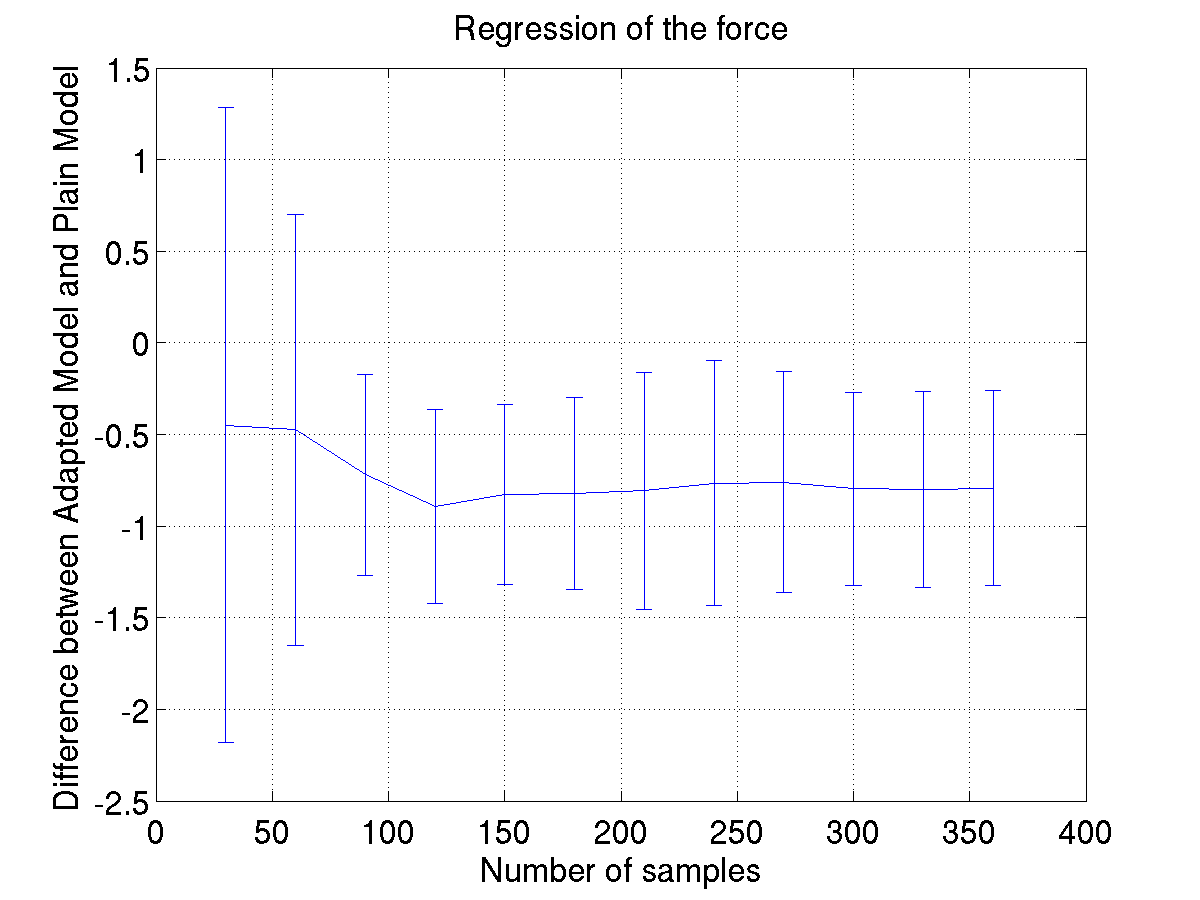
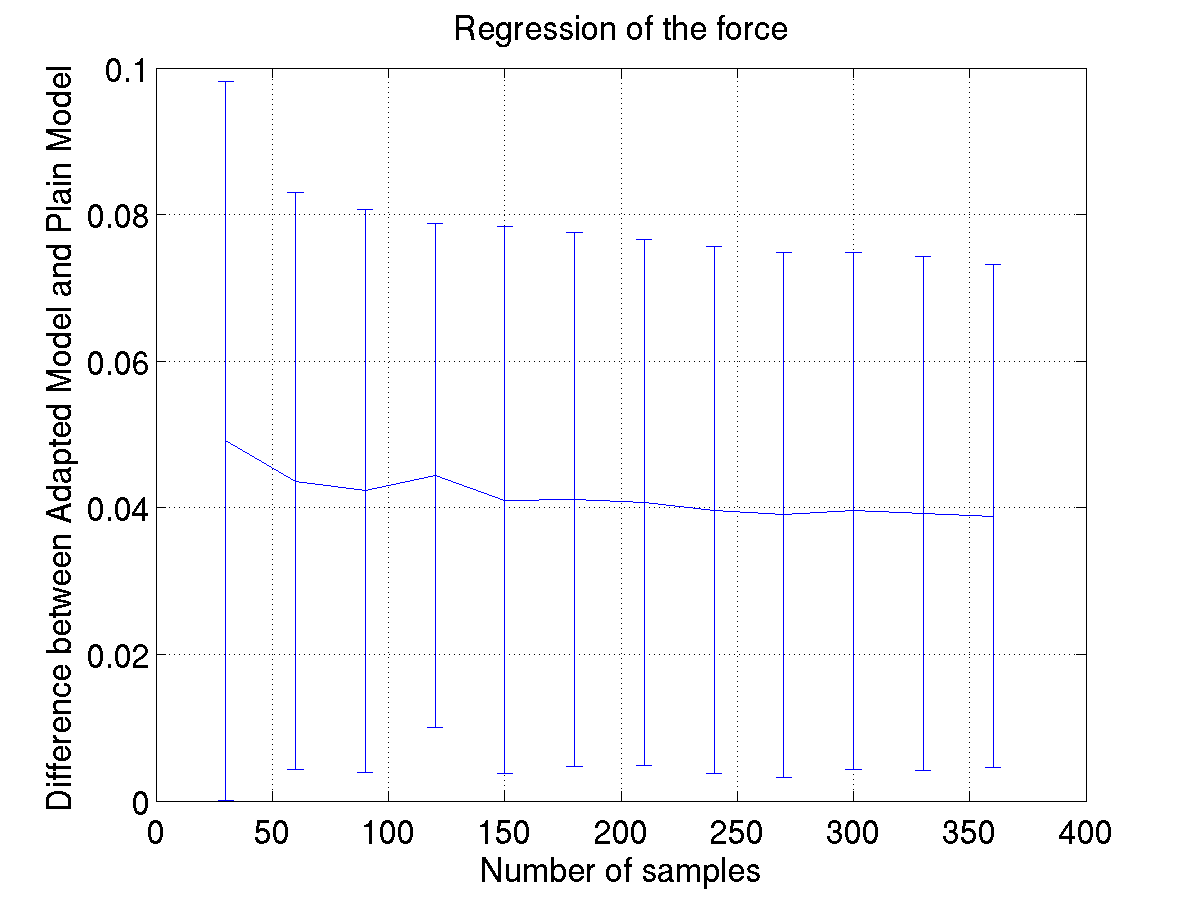
*** empty log message ***

Changed region(s): [[0.0308, 0.0622, 0.1233, 0.9022], [0.0925, 0.7778, 0.1233, 0.8089]]

diff --git a/2009.ICRA/30.exp.tex b/2009.ICRA/30.exp.tex
@@ -1,28 +1,81 @@
 We have conducted two different experiments, one to predict the force measured
 by the force sensor and another one to classify the grasp type.
-The EMG data were the preprocessed as described in Sec ???.
-To assess the performance of the proposed adaptation method we have compared it
-to two baseline methods. The first one consists in using only the stored models
-wihtout updating them; the second one consists in using only the new data for
-training. The parameters of the training ($C$ and $\gamma$) were chosen by
-cross-validation.
+The EMG data were the preprocessed as described in Sec \ref{sec:preproc}.
 
-Given that we have data from $10$ subjects we have used a sort of
-cross-validation to test the methods. In particular we consider one of the
-subject for the new data and use the other $9$ subjects to train the stored
-models. We repeat this procedure $10$ times, one for each subject, to have a
-reliable estimation of the performance.
+As said in Sec \ref{sec:adapt}, we need $N$ models already stored in memory.
+Then training data comes from subject $N+1$ and the system starts
+training. The performace is evaluated using unseen data from the subject
+$N+1$.
+To simulate this scenario and to have reliable estimation of the
+performance, we have used a sort of cross-validation.
+In particular we consider one of the subject to generate random sequences
+of training data and use the other $9$ subjects to train the stored models.
+This procedure is repeated $10$ times.
+
+To assess the performance of the proposed adaptation method we have compared it
+to two baseline methods. The first one, that we call \emph{Prior} consists in
+using only the stored models wihtout updating them with the new training data.
+The second one, \emph{NoAdapt}, consists in using LS-SVM using only the new data
+for training, as it would be in the normal scenario without adaption.
+For classification we used the classification rate as a measure of performance,
+while for regression we used the correlation index because \textbf{Claudio: perche'?
+hai una citazione da mettere?}.
+All the parameters of the training ($C$ and $\gamma$ of the gaussian kernel)
+were chosen by cross-validation.
+
+In Figure \ref{fig:diff_cla} we have plotted the average difference between 
+the classification performance of NoAdapt and our method. Using our adaptation
+method there is always an improvement, but when the training samples are too
+few the standard deviations are big. This is due to the high variance of the
+leave-one-out error with few training samples. Still, the average gain is
+almost $5\%$ when there are only 30 training samples and seems to stabilize
+around $1\%$ as the training samples increase.
+In Figure \ref{fig:cla_abs}.a we have plotted the best performance of our method
+on a particular subject, while in Figure \ref{fig:cla_abs}.b there is the worst
+performance on another subject. In the best case the gain is quite significant,
+while in the worst case we almost recover the performance of NoAdapt. In this
+case none of the models match the new distribution of the data, so the parameter
+$\beta$ was automatically set to a very small value. It is reasonable to think
+that the performance of the method would increase with the number of stored
+models. Note that in all the cases the performance of Prior models, where well
+below the performance of Adapt and NoAdapt, in Figure \ref{fig:cla_abs} is shown
+only the performance of the best one among all the 9 stored models.
+Similar observations can be done for the regression task in Figure \ref{fig:diff_reg}
+and Figure \ref{fig:reg_abs}.
 
 \begin{figure}[t]
   \centering
   \includegraphics[width=0.95\linewidth]{figs/exp1}
-  \caption{The classification experiment.}
-  \label{fig:exp1}
+  \caption{Difference in performance between NoAdapt and our method  on the
+ classification of the grasp types.}
+  \label{fig:diff_cla}
 \end{figure}
 
-\begin{figure}[t]
+\begin{figure*}[ht] \centering
+  \begin{tabular}{cc}
+    \includegraphics[width=0.45\textwidth]{figs/exp1_abs_best} &
+    \includegraphics[width=0.45\textwidth]{figs/exp1_abs_worst} \\
+    $(a)$ & $(b)$ \\
+  \end{tabular}
+  \caption{$(a)$ Best classfication rate gain of the adapted model compared to
+ NoAdapt and Prior on a particular subject; $(b)$ worst performance on another subject.}
+  \label{fig:cla_abs}
+\end{figure*}
+
+\begin{figure}[ht]
   \centering
   \includegraphics[width=0.95\linewidth]{figs/exp2}
   \caption{The regression experiment.}
-  \label{fig:exp2}
+  \label{fig:diff_reg}
 \end{figure}
+
+\begin{figure*}[ht] \centering
+  \begin{tabular}{cc}
+    \includegraphics[width=0.45\textwidth]{figs/exp2_abs_best} &
+    \includegraphics[width=0.45\textwidth]{figs/exp2_abs_worst} \\
+    $(a)$ & $(b)$ \\
+  \end{tabular}
+  \caption{$(a)$ Best correlation coefficient gain of the adapted model compared to NoAdapt
+ and Prior on a particular subject; $(b)$ worst performance on another subject.}
+  \label{fig:reg_abs}
+\end{figure*}

diff --git a/2009.ICRA/25.math.tex b/2009.ICRA/25.math.tex
@@ -1,9 +1,9 @@
 This section describes our mathematical framework. We first introduce
-the basic notation (Section \ref{back}), then we present our algorithm
-for online model adaptation (Section \ref{adapt}).
+the basic notation (Section \ref{sec:back}), then we present our algorithm
+for online model adaptation (Section \ref{sec:adapt}).
 
 \subsection{Background}
-\label{back}
+\label{sec:back}
 
 Assume $\xx_i \in \RR^m$ is an input vector and $y_i \in \RR$ is its
 associated output.  Given a set $\{\xx_i,y_i\}_{i=1}^l$ of samples
@@ -28,12 +28,10 @@ feature space itself,
 %between the images of vectors in the feature space,
 i.e. $K(\xx,\xx')=\phi(\xx) \cdot \phi(\xx')$. A common kernel
 function is the Gaussian kernel
-
 \begin{equation}
   K(\xx,\xx')=\exp(-\gamma ||x-x'||^2)
   \label{eq:rbf}
 \end{equation}
-
 \noindent that will be used in all our experiments.
 
 The parameters of the linear model, $\ww$ and $b$, are found by
@@ -53,7 +51,7 @@ adaptation method. Note that we use the same formulation to solve both
 regression and classification problems.
 
 \subsection{Model Adaptation}
-\label{adapt}
+\label{sec:adapt}
 
 Let us assume $N$ models are already stored in memory, trained
 off-line on data acquired on $N$ different subjects. When the
@@ -84,22 +82,22 @@ To solve this problem we generalize the framework for adaptation proposed in
 The basic idea is to slightly change the regularization term of the
 SVM, so that the solution will be close to the one of the previous
 model.  The optimization problem is \cite{YangYH07} %the following
-
 \begin{align}
-  \min_{\ww,b} \frac{1}{2} \|\ww- \ww'\|^2 + C \sum_{i=1}^N \xi^2 \\
+  \min_{\ww,b} \frac{1}{2} \|\ww- \ww'\|^2 + C \sum_{i=1}^N \xi^2 \nonumber \\
   \mbox{subject to} \;\;
-  \xi_i \geq 0,\;\; y_i \ww \cdot \phi(\xx_i) + b \geq 1-\xi_i,
+  \xi_i \geq 0,\;\; y_i \ww \cdot \phi(\xx_i) + b \geq 1-\xi_i~,
   \label{eq:opt_prob_orig}
 \end{align}
-
 \noindent where $\ww'$ is the previous model.
 %In our opinion the above formulation has the disadvantage of giving a fixed
 %weight to the previous model. 
 This formulation gives a fixed weight to $\ww'$. This can be a
 disadvantage in our scenario: for instance,
-\textbf{FRANCESCO: questa particina e` ancora da sistemare}
-\ldots To solve this problem, here we introduce a scaling factor for
-the previous model. In this way \ldots
+in the case none of the stored models is useful for the task at hand,
+imposing the closeness could harm the performance of the new model.
+To solve this problem, here we introduce a scaling factor for
+the previous model. In this way we can control the degree to which
+the new model is close to the previous one.
 We also change the loss into the standard square loss. This
 gives us the possibility to calculate the leave-one-out error with a
 closed formula, therefore
@@ -107,20 +105,15 @@ closed formula, therefore
 %in this way 
 to automatically tune this additional parameter. So we obtain the
 following optimization problem
-
-\begin{align}
-  \min_{\ww,b} \frac{1}{2} \|\ww- \beta \ww'\|^2 + \frac{C}{2} \sum_{i=1}^N \xi^2 \\
-  \mbox{subject to} \;\;
-  y_i = \ww \cdot \phi(\xx_i) + b + \xi_i.
+\begin{align} 
+  \min_{\ww,b} \frac{1}{2} \|\ww- \beta \ww'\|^2 + \frac{C}{2} \sum_{i=1}^N \xi^2 \nonumber \\
+  \mbox{subject to} \;\; y_i = \ww \cdot \phi(\xx_i) + b + \xi_i~.
   \label{eq:opt_prob}
 \end{align}
-
 It is easy to show that the optimal solution is %the form
-
 \begin{equation}
-  \ww = \beta \ww' + \sum_{i=1}^N \alpha_i \phi(\xx_i), \; \alpha_i \in \RR,
+  \ww = \beta \ww' + \sum_{i=1}^N \alpha_i \phi(\xx_i), \; \alpha_i \in \RR~,
 \end{equation}
-
 \noindent hence the final solution is given by the sum of the previous model
 scaled by the parameter $\beta$, and a new model given by the new data
 points.  Note that when $\beta$ is $0$ we recover the original LS-SVM

diff --git a/2009.ICRA/10.intro.tex b/2009.ICRA/10.intro.tex
@@ -70,7 +70,10 @@ prosthesis with a model which will be then refined and adapted on-line
 to the patient. In machine learning, this is called \emph{model
 adaptation}: a system which adapts to a new data distribution, as this
 distribution shifts with time. Model adaptation in this framework
-works like this: \textbf{FRANCESCO: brevissimo riassunto dell'approccio}
+works like this: at each step we constrain the model to be \emph{close}
+to the previous ones stored in the memory of the prosthesis. The degree
+of \emph{closeness} is automatically tuned using an estimation of the
+generalization error using the leave-one-out error.
 
 To check whether this idea can improve things, we apply it to a set of
 EMG data collected from $10$ healthy subjects. Each subject was asked
@@ -127,11 +130,13 @@ As far as we know, there is no EMG database present in the machine
 learning community, which could serve our purpose. In some of the
 aforementioned papers, analogous data sets (but most likely smaller
 than ours) are reported about, but there is no mention of their
-availability. 
+availability.
 %The data set used in this paper has been gathered in
 %2008 and is the subject of another analysis whose preliminary results
 %are visible in \cite{2008.GNB}. A larger, full report is being
 %prepared for submission.
 %FIXME CLAUDIO: mi sembra inutile e potenzialmente dannoso (se il db non e' nuovo, e un contributo di meno del paper), lo toglierei 
+Regarding model adaptation, several approaches has been proposed.
+In 
 \textbf{FRANCESCO: model adaptation in letteratura...}
 

diff --git a/2009.ICRA/00.abstract.tex b/2009.ICRA/00.abstract.tex
@@ -13,12 +13,13 @@ employed to this end. A desired feature is that of providing a
 pre-trained model to the patient, so that a quicker and better
 interaction can be obtained.
 
-To this end we propose \emph{model adaptation} for least-squares SVMs,
-a technique by which \textbf{FRANCESCO...}. We test the effectiveness
-of the approach on a database of EMG signals gathered from human
+To this end we propose \emph{model adaptation} with least-squares SVMs,
+a technique that allows the automatic tuning of the adaptation. We test the
+effectiveness of the approach on a database of EMG signals gathered from human
 subjects.
-We show that, when pre-trained models are used, the training time is reduced and the overall performance is increased,
-compared to what would be achieved by starting from scratch.
+We show that, when pre-trained models are used, the number of training samples
+needed to reach a certain performance is reduced, and the overall performance is
+increased, compared to what would be achieved by starting from scratch.
 % and show that not only the training time can be reduced, but
 %the overall performance can be increased, when pre-trained models are
 %used, as opposed to starting from scratch.

diff --git a/2009.ICRA/20.mms.tex b/2009.ICRA/20.mms.tex
@@ -72,6 +72,7 @@ $500$Hz. See Figure \ref{fig:spectra} for an example.
 %The board was connected via a USB port to a custom National Instruments' LabView VI application (running on an entry-level laptop) to acquire all the signals.
 
 \subsection{Data acquisition and pre-processing}
+\label{sec:preproc}
 
 %First of all we decided to record a rest condition to define the baseline of the EMG activity, than we started the experiment. 
 We first considered a rest condition, so to define the baseline of the
@@ -145,7 +146,7 @@ defined as the interval between the onset of the electrical activity
 of the muscle (EMG) indicating its activation by the neural system and
 the onset of the resulting change in the mechanical variable
 observed. The delays reported range from 25 to 100ms for different
-muscles and tasks\cite{Wolf1994}.}. Therefore, in practical
+muscles and tasks \cite{Wolf1994}.}. Therefore, in practical
 applications, it can be considered as acceptable a wider lag than what
 one would expect.
 %a wider lag is acceptable than one would expect. 

diff --git a/2009.ICRA/paper.tex b/2009.ICRA/paper.tex
@@ -38,7 +38,7 @@
 
 \author{Francesco~Orabona, Claudio~Castellini, Barbara~Caputo, Angelo~Emanuele~Fiorilla and Giulio~Sandini%
 \thanks{F. Orabona \emph{(corresponding author)} and B. Caputo
-  are with IDIAP,
+  are with Idiap Research Institute,
   rue Marconi, 19, Case Postale 592, CH-1920 Martigny, Switzerland.
   e-mail: francesco.orabona@idiap.ch, barbara.caputo@idiap.ch}%
 \thanks{C. Castellini
